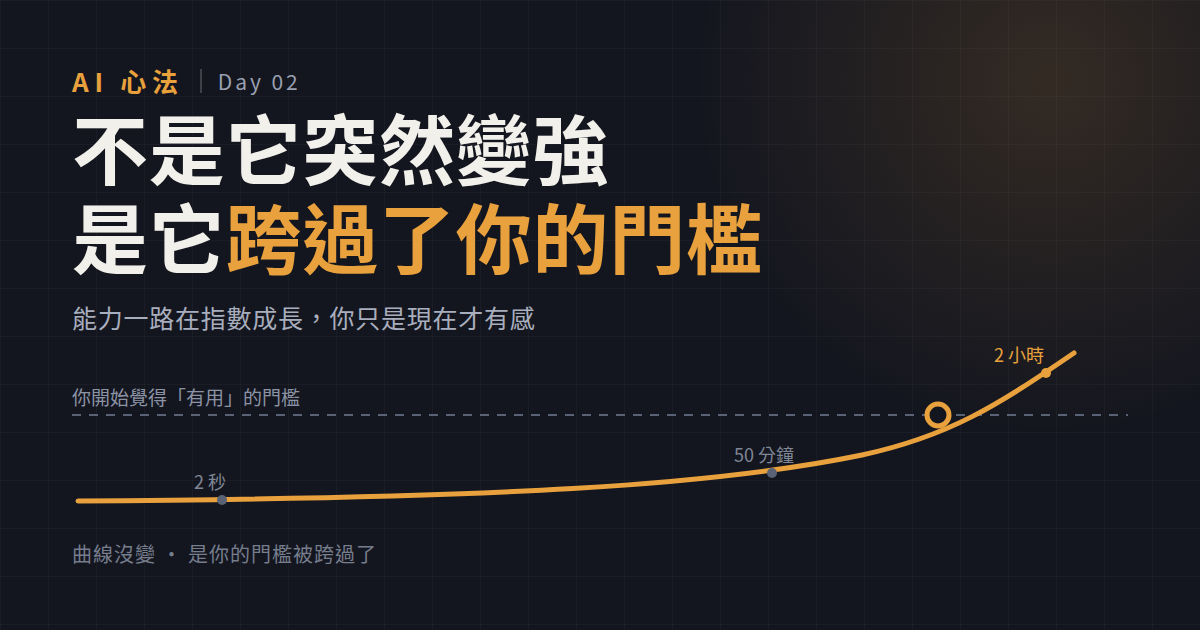
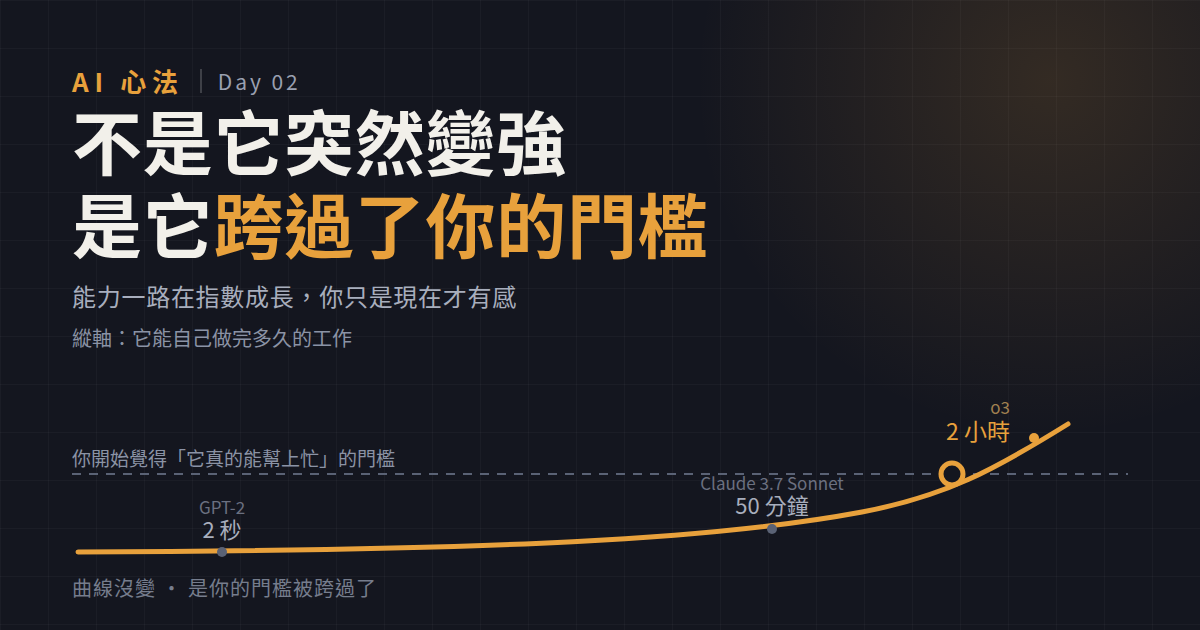
Day 02 封面：補上縱軸說明與模型名稱，標籤移出曲線

diff --git a/05-notes/ironman/assets/cover-day02.html b/05-notes/ironman/assets/cover-day02.html
@@ -12,10 +12,11 @@ body{width:1200px;height:630px;font-family:"Noto Sans CJK TC",sans-serif;
 .mark{font-size:26px;font-weight:700;letter-spacing:.22em;color:#e8a13c}
 .bar{width:2px;height:24px;background:#ffffff2e}
 .day{font-size:21px;letter-spacing:.14em;color:#9aa0b0}
-h1{font-size:76px;font-weight:900;line-height:1.18;letter-spacing:.01em}
+h1{font-size:70px;font-weight:900;line-height:1.18;letter-spacing:.01em}
 h1 em{font-style:normal;color:#e8a13c}
-.sub{margin-top:18px;font-size:25px;color:#a8aebd;letter-spacing:.03em}
-.chartwrap{margin-top:4px;margin-bottom:14px}
+.sub{margin-top:14px;font-size:24px;color:#a8aebd;letter-spacing:.03em}
+.chartwrap{margin-bottom:10px;margin-top:10px}
+.axis{font-size:20px;color:#8b93a5;margin-bottom:10px}
 .foot{font-size:20px;color:#767d8d;letter-spacing:.05em}
 text{font-family:"Noto Sans CJK TC",sans-serif}
 </style></head><body>
@@ -27,17 +28,29 @@ text{font-family:"Noto Sans CJK TC",sans-serif}
     <div class="sub">能力一路在指數成長，你只是現在才有感</div>
   </div>
   <div class="chartwrap">
-  <svg width="1056" height="176" viewBox="0 0 1056 176">
-    <line x1="0" y1="74" x2="1056" y2="74" stroke="#5a6275" stroke-width="2" stroke-dasharray="9 8"/>
-    <text x="0" y="64" fill="#8b93a5" font-size="19">你開始覺得「有用」的門檻</text>
-    <path d="M6,160 C 430,157 640,145 790,114 C 878,95 926,64 1002,12"
+  <div class="axis">縱軸：它能自己做完多久的工作</div>
+  <svg width="1056" height="196" viewBox="0 0 1056 196">
+    <!-- 門檻線 -->
+    <line x1="0" y1="112" x2="1056" y2="112" stroke="#5a6275" stroke-width="2" stroke-dasharray="9 8"/>
+    <text x="0" y="104" fill="#8b93a5" font-size="19">你開始覺得「它真的能幫上忙」的門檻</text>
+
+    <!-- 指數曲線 -->
+    <path d="M6,190 C 430,188 640,178 790,150 C 874,134 922,108 996,62"
           fill="none" stroke="#e8a13c" stroke-width="5" stroke-linecap="round"/>
-    <circle cx="866" cy="74" r="11" fill="#14161f" stroke="#e8a13c" stroke-width="5"/>
-    <g font-size="18">
-      <circle cx="150" cy="159" r="5" fill="#5a6275"/><text x="122" y="148" fill="#7f8695">2 秒</text>
-      <circle cx="700" cy="132" r="5" fill="#5a6275"/><text x="662" y="121" fill="#7f8695">50 分鐘</text>
-      <circle cx="974" cy="32" r="5" fill="#e8a13c"/><text x="922" y="21" fill="#e8a13c">2 小時</text>
-    </g>
+    <circle cx="880" cy="112" r="11" fill="#14161f" stroke="#e8a13c" stroke-width="5"/>
+
+    <!-- 刻度：模型名在上、時間在下，都在曲線上方留白處 -->
+    <circle cx="150" cy="190" r="5" fill="#5a6275"/>
+    <text x="150" y="152" fill="#6b7080" font-size="17" text-anchor="middle">GPT-2</text>
+    <text x="150" y="176" fill="#a8aebd" font-size="22" text-anchor="middle">2 秒</text>
+
+    <circle cx="700" cy="167" r="5" fill="#5a6275"/>
+    <text x="700" y="128" fill="#6b7080" font-size="17" text-anchor="middle">Claude 3.7 Sonnet</text>
+    <text x="700" y="152" fill="#a8aebd" font-size="22" text-anchor="middle">50 分鐘</text>
+
+    <circle cx="962" cy="76" r="5" fill="#e8a13c"/>
+    <text x="938" y="52" fill="#a08050" font-size="17" text-anchor="end">o3</text>
+    <text x="938" y="78" fill="#e8a13c" font-size="23" text-anchor="end">2 小時</text>
   </svg>
   </div>
   <div class="foot">曲線沒變 · 是你的門檻被跨過了</div>
